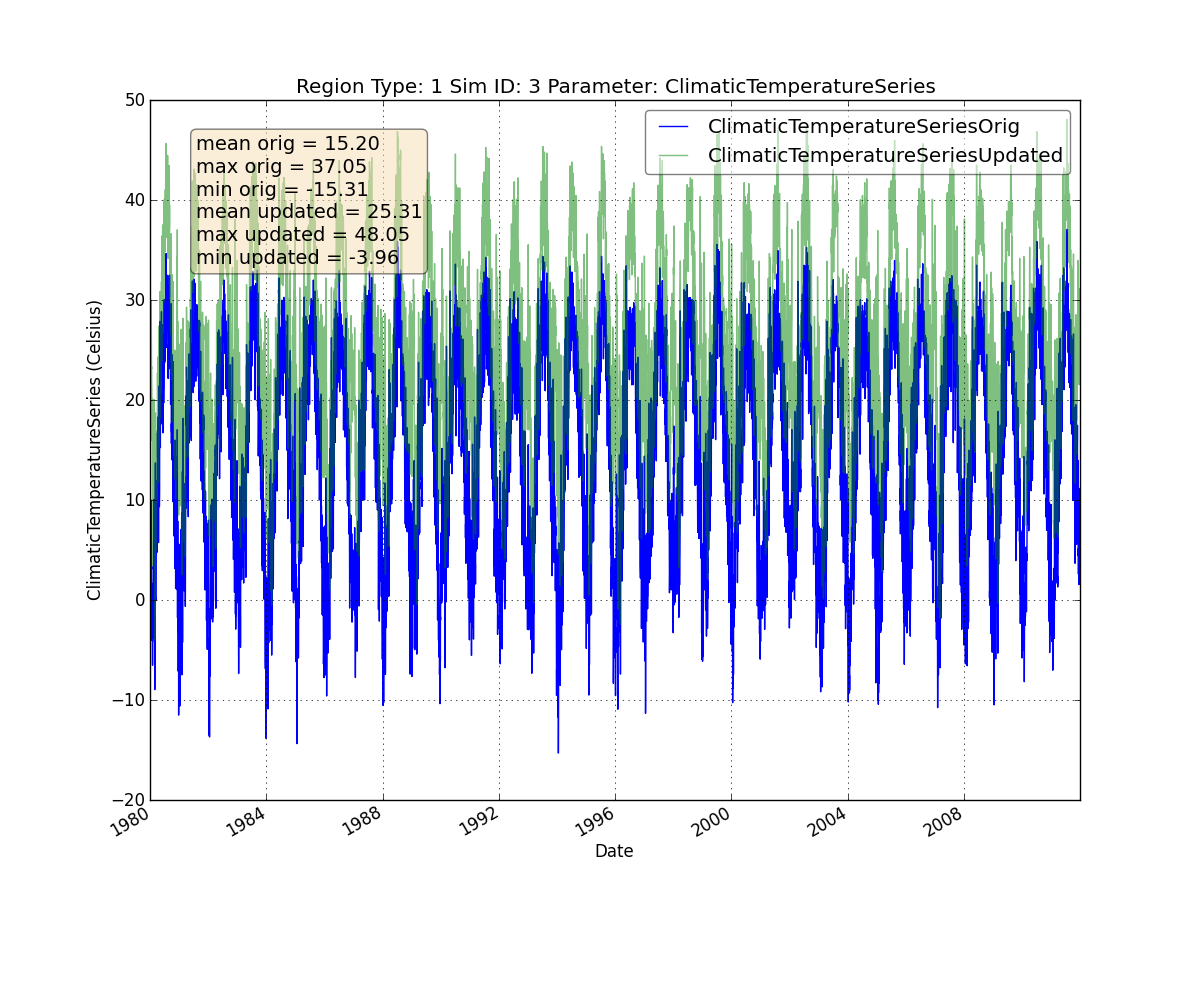
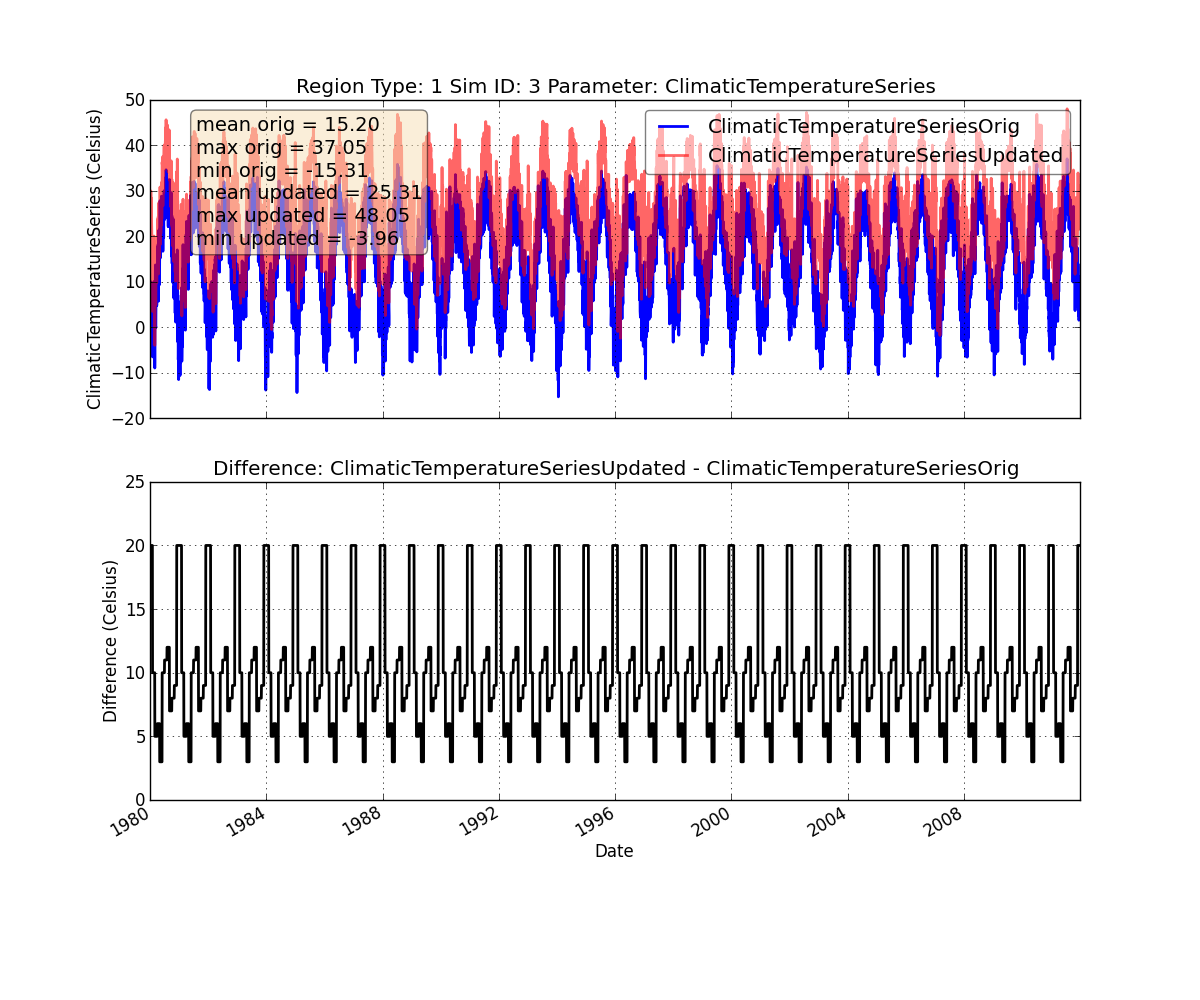
made better plots for waterxml.py

diff --git a/waterapputils/waterxml.py b/waterapputils/waterxml.py
@@ -310,27 +310,28 @@ def plot_climate_parameter_comparison(parameter_name, climate_parameter_orig, cl
     dates_updated, values_updated, units_updated = get_climate_data(climate_parameter_updated)
 
     fig = plt.figure(figsize=(12,10))
-    ax = fig.add_subplot(111)
-    ax.grid(True)
-    ax.set_title('Region Type: ' + region_type + ' Sim ID: ' + sim_id_num + ' Parameter: ' + parameter_name)
-    ax.set_xlabel('Date')
-    ax.set_ylabel(parameter_name + ' (' + units_orig + ')')
-    plt.plot(dates_orig, values_orig, color = 'b', label = parameter_name + 'Orig')
-    plt.hold(True)
-    plt.plot(dates_updated, values_updated, color = 'g', label = parameter_name + 'Updated', alpha = 0.5)
-
-    # rotate and align the tick labels so they look better
-    fig.autofmt_xdate()
     
-    # use a more precise date string for the x axis locations in the
-    # toolbar
-    ax.fmt_xdata = mdates.DateFormatter('%Y-%m-%d')
- 
+    # plot original vs. updated
+    ax1 = fig.add_subplot(211)
+    ax1.grid(True)
+    ax1.set_title('Region Type: ' + region_type + ' Sim ID: ' + sim_id_num + ' Parameter: ' + parameter_name)
+    ax1.set_xlabel('Date')
+    ax1.set_ylabel(parameter_name + ' (' + units_orig + ')')
+    ax1.plot(dates_orig, values_orig, color = 'b', label = parameter_name + 'Orig', linewidth = 2)
+    ax1.hold(True)
+    ax1.plot(dates_updated, values_updated, color = 'r', label = parameter_name + 'Updated', linewidth = 2, alpha = 0.6)
+
+    # use a more precise date string for the x axis locations in the toolbar
+    ax1.fmt_xdata = mdates.DateFormatter('%Y-%m-%d')
+    
+    # rotate and align the tick labels so they look better      
+    #plt.setp(ax1.xaxis.get_majorticklabels(), rotation = 30)
+    
     # legend; make it transparent    
-    handles, labels = ax.get_legend_handles_labels()
-    legend = ax.legend(handles, labels, fancybox = True)
-    legend.get_frame().set_alpha(0.5)
-    legend.draggable(state=True)
+    handles1, labels1 = ax1.get_legend_handles_labels()
+    legend1 = ax1.legend(handles1, labels1, fancybox = True)
+    legend1.get_frame().set_alpha(0.5)
+    legend1.draggable(state=True)
     
     # show text of mean, max, min values on graph; use matplotlib.patch.Patch properies and bbox
     text = 'mean orig = %.2f\nmax orig = %.2f\nmin orig = %.2f\nmean updated = %.2f\nmax updated = %.2f\nmin updated = %.2f' % (np.mean(values_orig), np.max(values_orig), np.min(values_orig),
@@ -340,8 +341,38 @@ def plot_climate_parameter_comparison(parameter_name, climate_parameter_orig, cl
                         'alpha': 0.5
                         }
                    
-    ax.text(0.05, 0.95, text, transform = ax.transAxes, fontsize = 14, 
+    ax1.text(0.05, 0.95, text, transform = ax1.transAxes, fontsize = 14, 
             verticalalignment = 'top', horizontalalignment = 'left', bbox = patch_properties)
+    # plot difference = updated - original
+    ax2 = fig.add_subplot(212, sharex = ax1)
+    ax2.grid(True)
+    ax2.set_title('Difference: ' + parameter_name + 'Updated' + ' - ' + parameter_name + 'Orig')
+    ax2.set_xlabel('Date')
+    ax2.set_ylabel('Difference' + ' (' + units_orig + ')')
+    diff = values_updated - values_orig
+    ax2.plot(dates_orig, diff, color = 'k', label = 'Updated - Orig', linewidth = 2)
+    
+#    indices_positive = np.where(diff >= 0)
+#    indices_negative = np.where(diff <= 0)
+#    diff_positive = diff[indices_positive]
+#    diff_negative = diff[indices_negative]
+#    dates_positive = dates_orig[indices_positive]
+#    dates_negative = dates_orig[indices_negative]
+#    ax2.plot(dates_positive, diff_positive, color = 'k', label = 'Updated - Orig', linewidth = 2)
+#    ax2.hold(True)
+#    ax2.plot(dates_negative, diff_negative, color = 'gray', label = 'Updated - Orig', linewidth = 2)    
+    
+    # use a more precise date string for the x axis locations in the toolbar
+    ax2.fmt_xdata = mdates.DateFormatter('%Y-%m-%d')
+
+    # rotate and align the tick labels so they look better 
+    #plt.xticks(rotation = 30)
+    #ax2.xticks(rotation = 30)
+    #plt.setp(ax2.xaxis.get_majorticklabels(), rotation = 30)
+    
+    # rotate and align the tick labels so they look better; note that ax2 will 
+    # have the dates, but ax1 will not.
+    fig.autofmt_xdate()
     
     # save plots
     if save_path:        
@@ -556,11 +587,11 @@ def main_singlefile():
                     'March': 5.0,
                     'April': 6.0,
                     'May': 3.0,
-                    'June': 10.0,
-                    'July': 11.0,
-                    'August': 12.0,
-                    'September': 7.0,
-                    'October': 8.0,
+                    'June': -10.0,
+                    'July': -11.0,
+                    'August': -12.0,
+                    'September': -7.0,
+                    'October': -8.0,
                     'November': 9.0,
                     'December': 20.0
                 },
